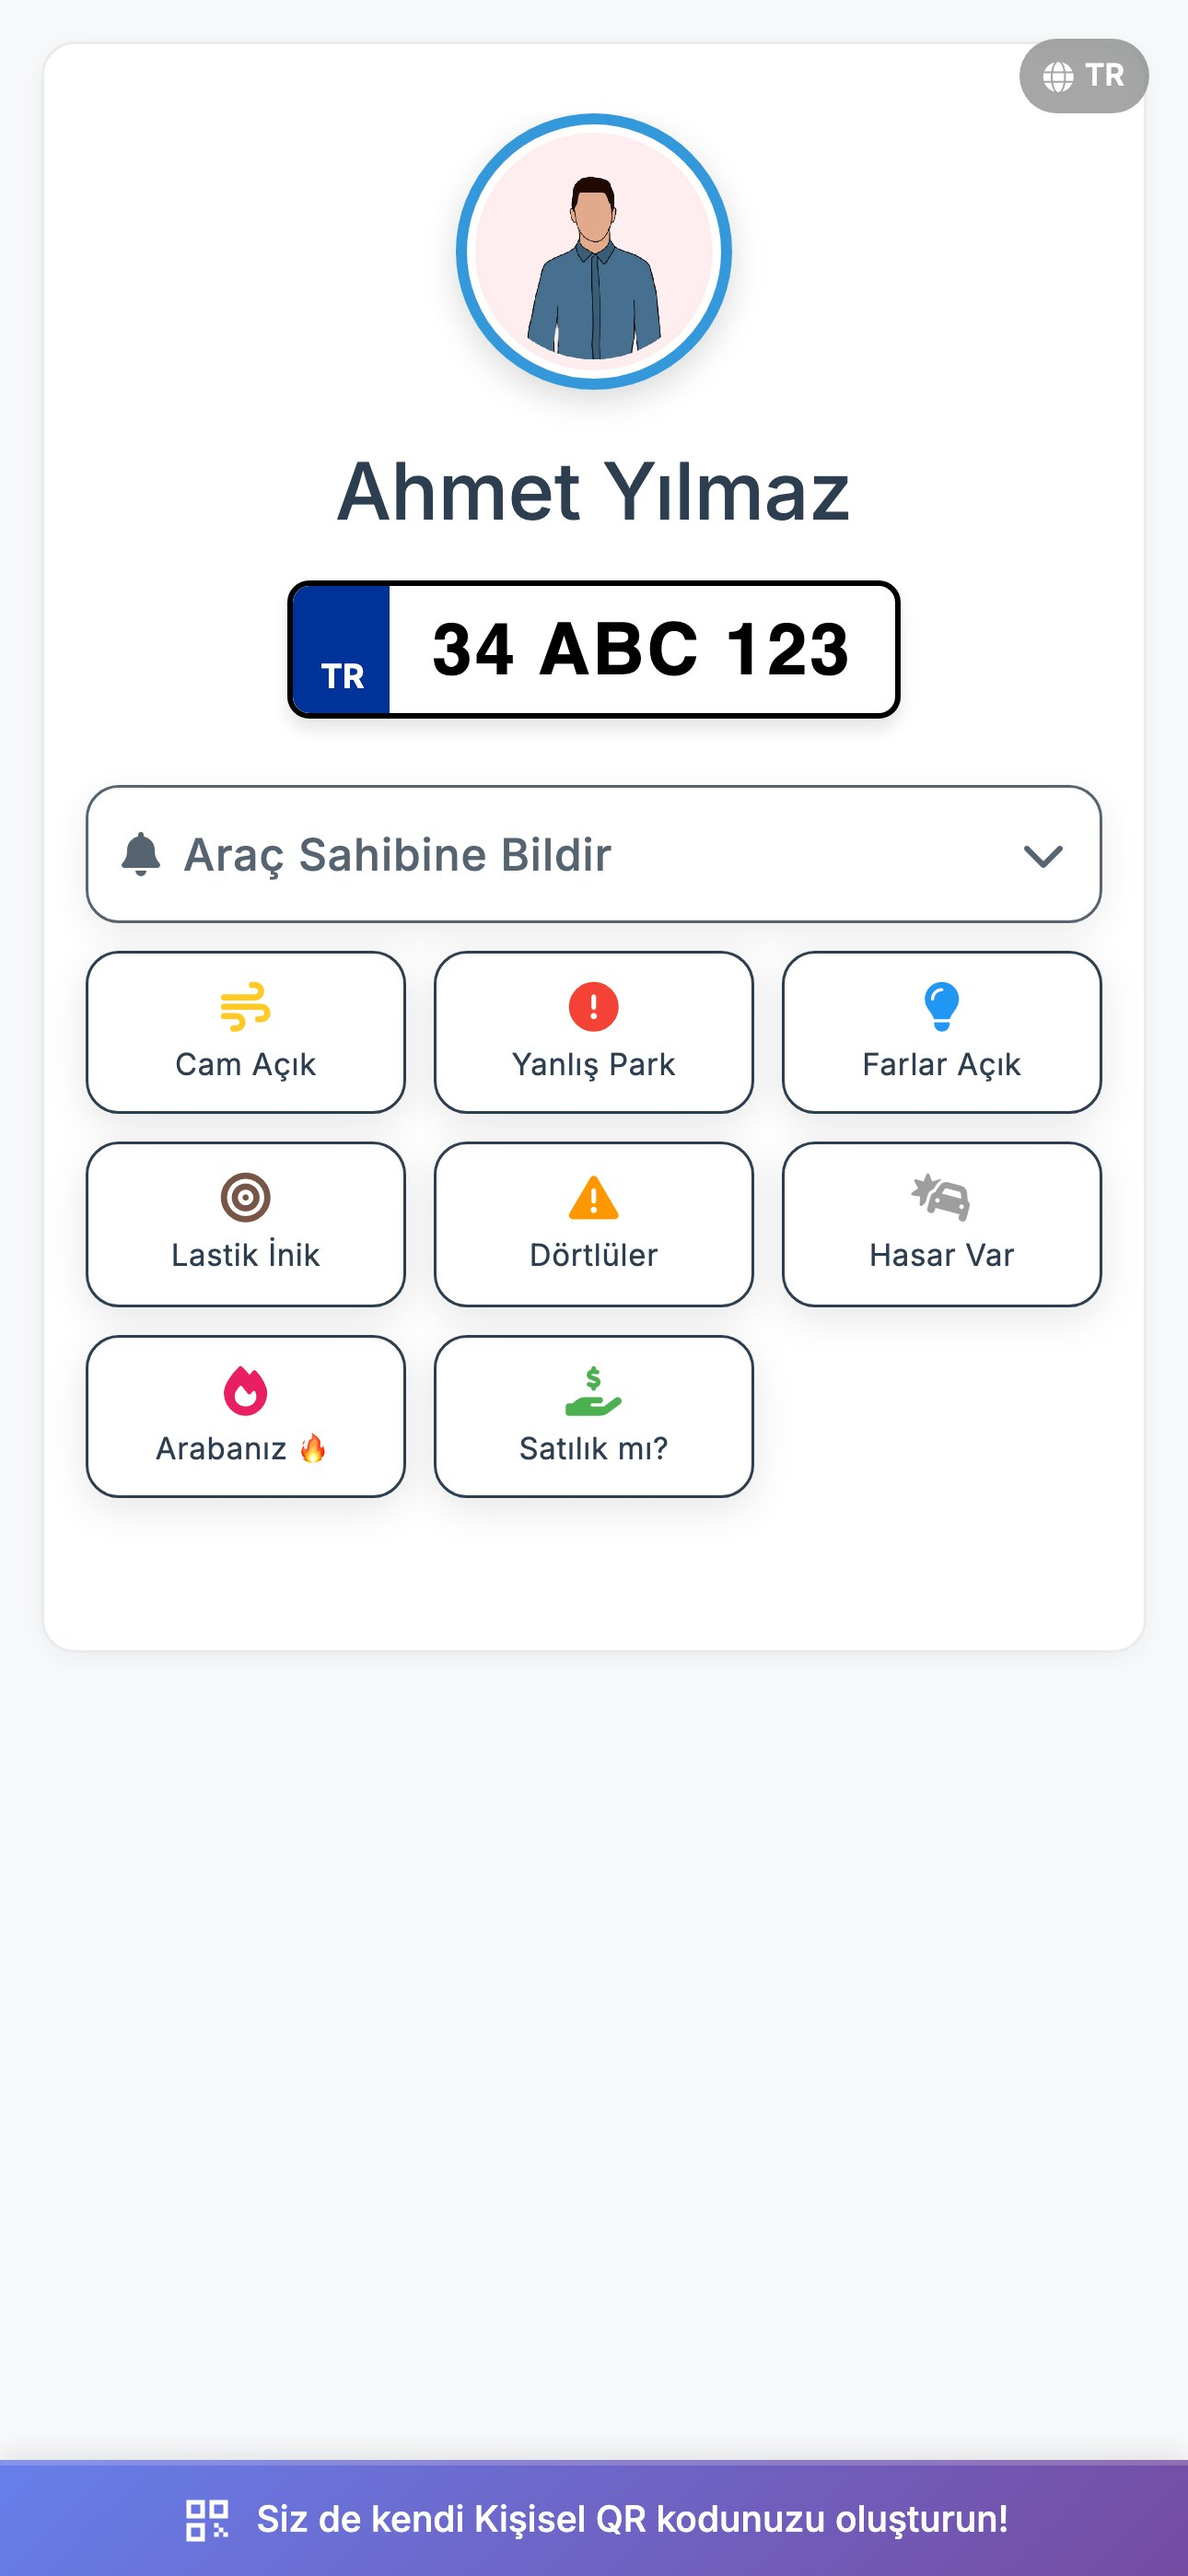
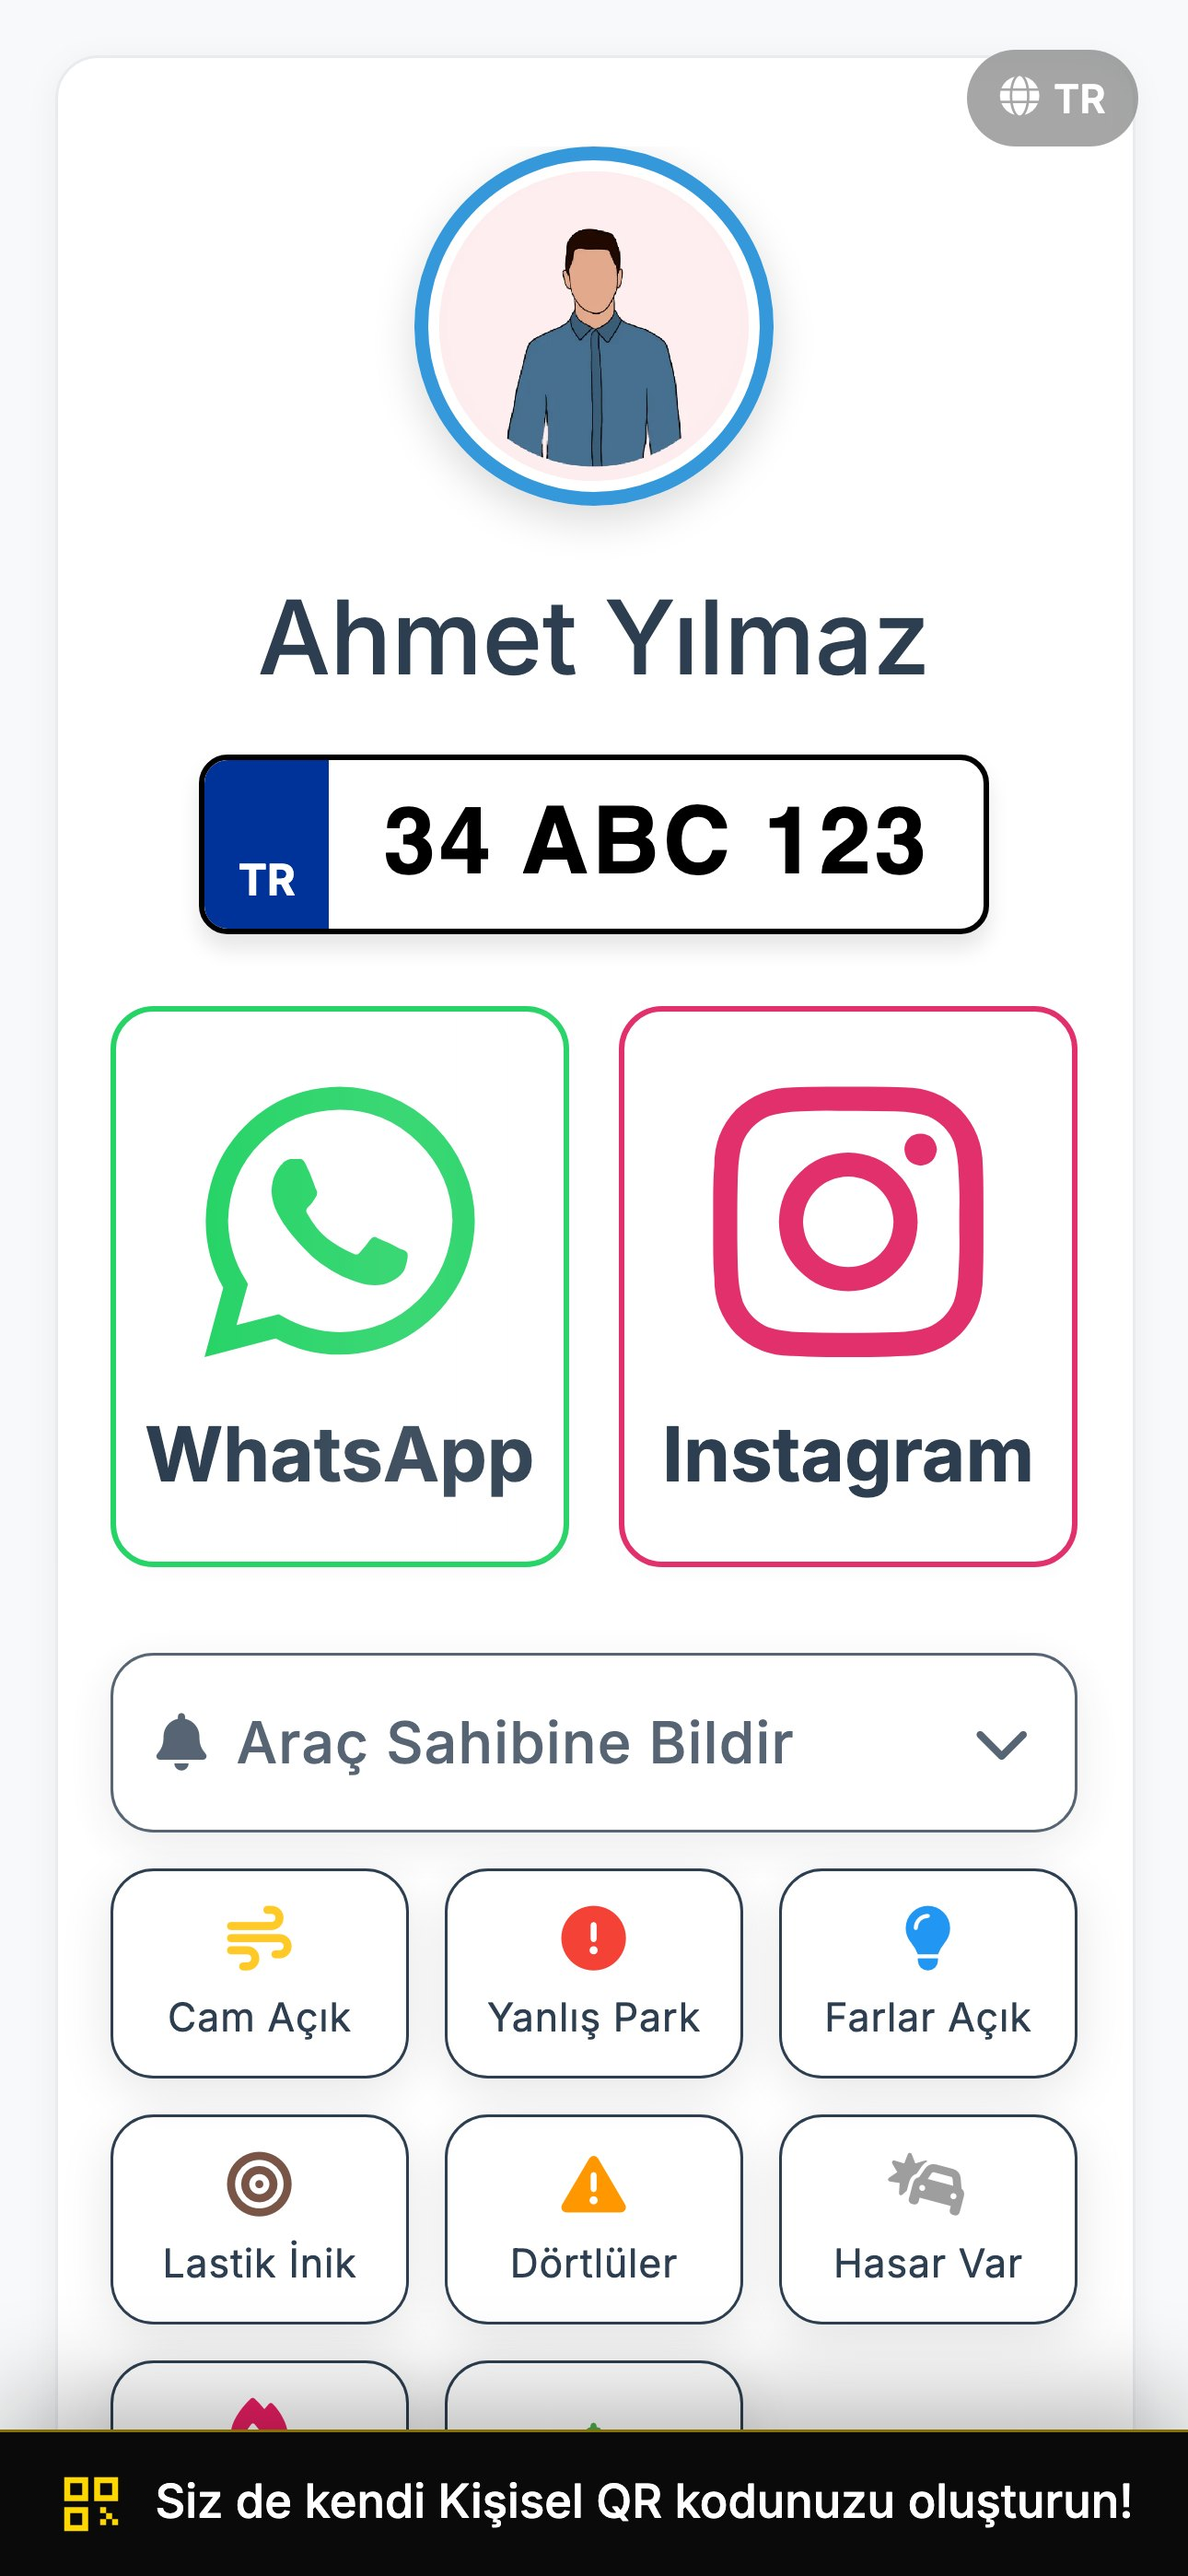
Kutu: araç beyaz/gümüş; telefon ekranında büyük WhatsApp ve Instagram logoları
- Tasarım 1 ön yüz aracı ve büyüteçteki yakın plan beyaz/gümüş boyandı (önceden siyah).
- vitrin_profil_ekran.jpg yeniden çekildi: ad + plaka altında iki büyük logo kutucuğu, içerik %130 büyütülmüş.
  demo_ekran_goruntusu.py: sosyal listesi + zoom parametresi; WhatsApp artık LinkedIn'e çevrilmiyor.

diff --git a/assets/tasarim1/tasarim1.js b/assets/tasarim1/tasarim1.js
@@ -525,38 +525,39 @@
     // gövde: temel dolgu (üst yüzeyler ışık alır)
     simetrik(ctx, GOVDE);
     const gg = ctx.createLinearGradient(0, 176, 0, 1480);
-    gg.addColorStop(0, '#0f1011'); gg.addColorStop(0.18, '#18191b'); gg.addColorStop(0.45, '#212326');
-    gg.addColorStop(0.62, '#272a2d'); gg.addColorStop(0.7, '#1f2124'); gg.addColorStop(0.93, '#2b2e32'); gg.addColorStop(1, '#43474c');
+    // Boya: beyaz/gümüş (14 Kasım, Adem; önceden siyah). Siyah zeminde araç seçilsin diye açık renk.
+    gg.addColorStop(0, '#7d838a'); gg.addColorStop(0.18, '#aeb4ba'); gg.addColorStop(0.45, '#d3d7db');
+    gg.addColorStop(0.62, '#e4e7ea'); gg.addColorStop(0.7, '#cdd1d5'); gg.addColorStop(0.93, '#e9ecee'); gg.addColorStop(1, '#f7f8f9');
     ctx.fillStyle = gg; ctx.fill();
     // yan yüzeyler kenara doğru koyulaşır (hacim)
     ctx.save(); simetrik(ctx, GOVDE); ctx.clip();
     const yg = ctx.createLinearGradient(-930, 0, 930, 0);
-    yg.addColorStop(0, 'rgba(0,0,0,0.55)'); yg.addColorStop(0.16, 'rgba(0,0,0,0)'); yg.addColorStop(0.84, 'rgba(0,0,0,0)'); yg.addColorStop(1, 'rgba(0,0,0,0.55)');
+    yg.addColorStop(0, 'rgba(0,0,0,0.42)'); yg.addColorStop(0.16, 'rgba(0,0,0,0)'); yg.addColorStop(0.84, 'rgba(0,0,0,0)'); yg.addColorStop(1, 'rgba(0,0,0,0.42)');
     ctx.fillStyle = yg; ctx.fillRect(-940, 150, 1880, 1350);
     ctx.restore();
 
     // kaput: yukarı bakan yüzey, gövdeden açık
     simetrik(ctx, KAPUT);
     const kg = ctx.createLinearGradient(0, 776, 0, 992);
-    kg.addColorStop(0, '#24272a'); kg.addColorStop(0.35, '#3b3f44'); kg.addColorStop(1, '#30343a');
+    kg.addColorStop(0, '#c9ced3'); kg.addColorStop(0.35, '#eef0f2'); kg.addColorStop(1, '#dde1e5');
     ctx.fillStyle = kg; ctx.fill();
     ctx.save(); simetrik(ctx, KAPUT); ctx.clip();
     ctx.fillStyle = yg; ctx.fillRect(-940, 760, 1880, 240);
     const hs = ctx.createRadialGradient(-140, 905, 10, -140, 905, 560);
-    hs.addColorStop(0, 'rgba(255,255,255,0.12)'); hs.addColorStop(1, 'rgba(255,255,255,0)');
+    hs.addColorStop(0, 'rgba(255,255,255,0.45)'); hs.addColorStop(1, 'rgba(255,255,255,0)');
     ctx.fillStyle = hs; ctx.fillRect(-940, 760, 1880, 240);
     // kaput kıvrımları (ışık + gölge çifti)
     [[1, 0.2], [-1, 0.2]].forEach(([k]) => {
       ctx.strokeStyle = isik(0.16); ctx.lineWidth = lw(0.16);
       ctx.beginPath(); ctx.moveTo(k * 238, 786); ctx.quadraticCurveTo(k * 300, 880, k * 372, 990); ctx.stroke();
-      ctx.strokeStyle = 'rgba(0,0,0,0.5)';
+      ctx.strokeStyle = 'rgba(0,0,0,0.22)';
       ctx.beginPath(); ctx.moveTo(k * 252, 786); ctx.quadraticCurveTo(k * 316, 880, k * 390, 990); ctx.stroke();
     });
     ctx.restore();
     // kaput ön kenarı parlaklığı + yan kapı (çamurluk) derz çizgileri
     ctx.strokeStyle = isik(0.42); ctx.lineWidth = lw(0.18);
     ctx.beginPath(); ctx.moveTo(-800, 806); ctx.quadraticCurveTo(-400, 792, 0, 776); ctx.quadraticCurveTo(400, 792, 800, 806); ctx.stroke();
-    ctx.strokeStyle = '#060707'; ctx.lineWidth = lw(0.16);
+    ctx.strokeStyle = 'rgba(40,44,48,0.55)'; ctx.lineWidth = lw(0.16);
     [1, -1].forEach(k => { ctx.beginPath(); ctx.moveTo(k * 788, 958); ctx.lineTo(k * 822, 832); ctx.stroke(); });
 
     // ön cam bölgesi: torpido gözü (cowl) + silecek
@@ -616,7 +617,7 @@
     ikiYan(ctx, YAN_CAM, () => { ctx.fillStyle = '#0b0d0f'; ctx.fill(); ctx.strokeStyle = isik(0.18); ctx.lineWidth = lw(0.1); ctx.stroke(); });
     ikiYan(ctx, SUTUN, () => {
       const pg = ctx.createLinearGradient(0, 1000, 0, 1420);
-      pg.addColorStop(0, '#1d1f22'); pg.addColorStop(1, '#2c2f33');
+      pg.addColorStop(0, '#b7bcc1'); pg.addColorStop(1, '#dfe2e5');
       ctx.fillStyle = pg; ctx.fill();
     });
     // tavan kenarı ve gövde silüeti (kenar ışığı)
@@ -630,7 +631,7 @@
     // yan aynalar
     ikiYan(ctx, AYNA, k => {
       const ag = ctx.createLinearGradient(0, 990, 0, 1115);
-      ag.addColorStop(0, '#16181a'); ag.addColorStop(1, '#30343a');
+      ag.addColorStop(0, '#a3a9af'); ag.addColorStop(1, '#e3e6e9');
       ctx.fillStyle = ag; ctx.fill();
       ctx.strokeStyle = isik(0.4); ctx.lineWidth = lw(0.14); ctx.stroke();
       ctx.strokeStyle = isik(0.5); ctx.lineWidth = lw(0.12);   // üst kenar ışığı
@@ -768,7 +769,7 @@
     ctx.fillStyle = '#08090a';
     ctx.beginPath(); ctx.moveTo(gx(-R), -R); ctx.lineTo(gx(R), R); ctx.lineTo(-R, R); ctx.lineTo(-R, -R); ctx.closePath(); ctx.fill();
     const pg = ctx.createLinearGradient(-R, 0, gx(0) - 6, 0);
-    pg.addColorStop(0, '#1a1c1f'); pg.addColorStop(1, '#34383d');
+    pg.addColorStop(0, '#b7bcc1'); pg.addColorStop(1, '#e3e6e9');
     ctx.fillStyle = pg;
     ctx.beginPath(); ctx.moveTo(gx(-R) - 6, -R); ctx.lineTo(gx(R) - 6, R); ctx.lineTo(-R, R); ctx.lineTo(-R, -R); ctx.closePath(); ctx.fill();
     ctx.strokeStyle = 'rgba(255,255,255,0.5)'; ctx.lineWidth = 1.3;
@@ -780,7 +781,7 @@
     ctx.strokeStyle = 'rgba(255,255,255,0.3)'; ctx.lineWidth = 0.9;
     ctx.beginPath(); ctx.moveTo(-R, CAM_ALT + 1.8); ctx.lineTo(R, CAM_ALT + 0.5); ctx.stroke();
     const hg = ctx.createLinearGradient(0, CAM_ALT + 9, 0, R);
-    hg.addColorStop(0, '#3e4248'); hg.addColorStop(1, '#202326');
+    hg.addColorStop(0, '#e9ecee'); hg.addColorStop(1, '#bfc4c9');
     ctx.fillStyle = hg; ctx.fillRect(-R, CAM_ALT + 9, 2 * R, R);
     ctx.strokeStyle = 'rgba(255,255,255,0.45)'; ctx.lineWidth = 1.1;
     ctx.beginPath(); ctx.moveTo(-R, CAM_ALT + 9); ctx.lineTo(R, CAM_ALT + 9); ctx.stroke();

diff --git a/araclar/demo_ekran_goruntusu.py b/araclar/demo_ekran_goruntusu.py
@@ -8,7 +8,10 @@ Vitrin: sayfanın kendisi (tasarım, CSS, butonlar) canlıdakiyle aynıdır; yal
   - isim örnek bir kişiyle değiştirilir; kısa bilgi satırı ve sosyal bağlantılar kaldırılır (sade araç profili)
   - telefon butonu kaldırılır: web sayfası phone_hidden=1 iken tam böyle görünür (kutunun vaadi).
     DİKKAT (9 Ekim): uygulamada bu ayar henüz yok, yeni profillerde numara varsayılan olarak görünür.
-  - WhatsApp bağlantısı numarayı açık ettiği için LinkedIn ile değiştirilir
+  - sosyal: yalnız WhatsApp ve Instagram kalır, iki büyük logo kutucuğu olarak (14 Kasım, Adem). Bu, canlı sayfanın
+    satır görünümünden farklı bir vitrin düzenidir: küçük telefon çiziminde logolar seçilsin diye.
+    (9 Ekim–14 Kasım arası sosyal bağlantılar yoktu ve WhatsApp, LinkedIn ile değiştiriliyordu.)
+  - zoom: sayfa içeriği büyütülür, telefon ekranında her şey daha iri görünür (alt kısım kırpılır)
   - plaka (kutudaki araçla aynı) sayfanın kendi plaka bloğuyla isim altına eklenir
 
 Gereksinim: Google Chrome, pip install websocket-client
@@ -28,14 +31,32 @@ CLICK = """(()=>{const c=[...document.querySelectorAll('button,a,[role=button],s
   const el=c.find(e=>e.tagName==='BUTTON'||e.tagName==='SUMMARY'||e.getAttribute('role')==='button')||c[0];
   if(el) el.click(); return !!el})()"""
 
-# Sade araç profili (9 Ekim): ad + plaka + bildirim butonları. Kartvizit öğeleri (bilgi satırı, sosyal
-# bağlantılar) gösterilmez: gizlilik vaadini zayıflatıyordu (psikoloji analizi, kasada "KisiselQR Rakip ve Kutu Analizi").
-VITRIN = {'isim': 'Ahmet Yılmaz', 'bilgi': '', 'plaka': '34 ABC 123', 'sosyal': False}   # plaka: kutudaki araçla aynı
+# Vitrin: ad + plaka + WhatsApp/Instagram + bildirim butonları (14 Kasım). Bilgi satırı gösterilmez.
+VITRIN = {'isim': 'Ahmet Yılmaz', 'bilgi': '', 'plaka': '34 ABC 123',   # plaka: kutudaki araçla aynı
+          'sosyal': ['whatsapp', 'instagram'], 'zoom': 1.3}
 DOLDUR = """((V)=>{const q=s=>document.querySelector(s);
   const h=q('.profile-header h1'); if(h) h.textContent=V.isim;
   const im=q('.profile-photo'); if(im) im.alt=V.isim+' profil fotoğrafı';
   const b=q('.profile-header .bio'); if(b){ if(V.bilgi) b.textContent=V.bilgi; else b.remove(); }
-  if(!V.sosyal) document.querySelectorAll('.social-media-list').forEach(e=>e.remove());
+  if(!V.sosyal || !V.sosyal.length) document.querySelectorAll('.social-media-list').forEach(e=>e.remove());
+  else {
+    const RENK={whatsapp:'#25D366',instagram:'#E1306C'}, AD={whatsapp:'WhatsApp',instagram:'Instagram'};
+    const tur=a=>/wa\.me|whatsapp/i.test(a.href)?'whatsapp':(/instagram/i.test(a.href)?'instagram':'');
+    document.querySelectorAll('a.social-list-btn').forEach(a=>{ if(!V.sosyal.includes(tur(a))) a.remove(); });
+    document.querySelectorAll('.social-media-list').forEach(l=>{
+      l.style.cssText+=';display:grid;grid-template-columns:1fr 1fr;gap:14px;';
+      [...l.children].forEach(c=>{ if(!c.querySelector('a.social-list-btn') && !c.matches('a.social-list-btn')) c.remove(); });
+    });
+    document.querySelectorAll('a.social-list-btn').forEach(a=>{ const t=tur(a);
+      a.style.cssText+=';order:'+(t==='whatsapp'?0:1)+';display:flex;flex-direction:column;align-items:center;justify-content:center;gap:10px;padding:16px 6px;margin:0;height:auto;min-height:0;max-height:none;overflow:visible;border:2px solid '+RENK[t]+';';
+      const i=a.querySelector('i'); if(i){ i.className=t==='whatsapp'?'fab fa-whatsapp':'fab fa-instagram';
+        i.style.cssText='font-size:86px;line-height:1;display:block;width:auto;height:auto;min-height:86px;margin:0;color:'+RENK[t]+';';
+        if(i.parentElement!==a) i.parentElement.style.cssText='margin:0;width:auto;height:auto;font-size:86px;text-align:center;'; }
+      const ti=a.querySelector('.btn-title'); if(ti){ ti.textContent=AD[t]; ti.style.cssText='font-size:21px;font-weight:700;margin:0;'; }
+      a.querySelectorAll(':scope > *:not(i):not(.btn-title)').forEach(x=>{ if(!x.contains(i)&&!x.contains(ti)) x.style.display='none'; });
+    });
+  }
+  if(V.zoom) document.body.style.zoom=V.zoom;
   // plaka: profile.php'nin kendi plaka bloğu (profilde plaka girilince isim altında bu işaretleme basılır)
   if(h && V.plaka && !q('.license-plate-wrapper')) h.insertAdjacentHTML('afterend',
     '<div class="license-plate-wrapper" style="display:flex;justify-content:center;margin:15px 0;">'+
@@ -45,9 +66,6 @@ DOLDUR = """((V)=>{const q=s=>document.querySelector(s);
     '<div class="plate-text" style="padding:0 15px;display:flex;align-items:center;justify-content:center;font-family:\\'Segoe UI\\',Roboto,Helvetica,Arial,sans-serif;font-size:26px;font-weight:800;color:#000;letter-spacing:1px;">'+
     V.plaka.toUpperCase()+'</div></div></div>');
   document.querySelectorAll('.contact-info').forEach(e=>e.remove());
-  document.querySelectorAll('a.social-list-btn').forEach(a=>{ if(/wa\\.me|whatsapp/i.test(a.href)){
-    a.href='https://www.linkedin.com/'; const i=a.querySelector('i'); if(i) i.className='fab fa-linkedin';
-    const t=a.querySelector('.btn-title'); if(t) t.textContent='LinkedIn'; }});
   return !!h})(%s)""" % json.dumps(VITRIN, ensure_ascii=False)
 
 prof = tempfile.mkdtemp()
